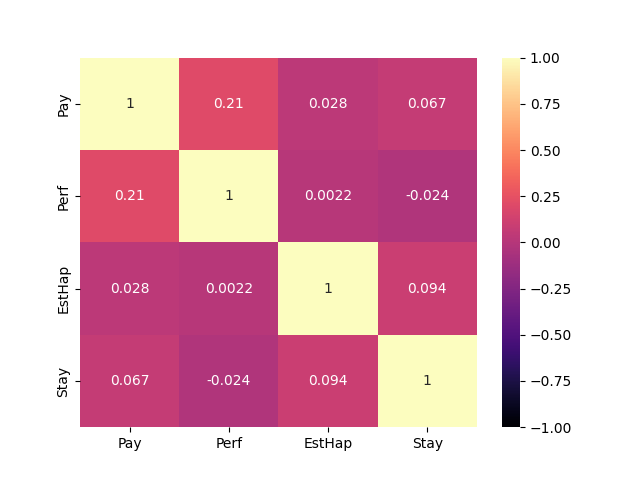
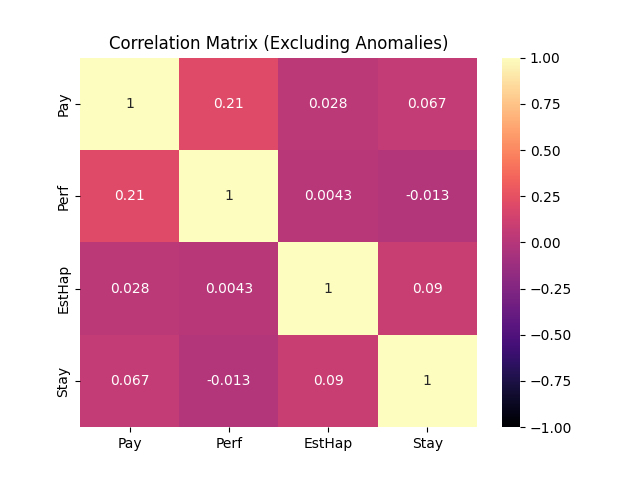
exclude data anomalies

diff --git a/Project 2/data_exploration.py b/Project 2/data_exploration.py
@@ -16,21 +16,23 @@ print(data.corr())
 import matplotlib.pyplot as plt
 import seaborn as sns
 
-# Correlation matrix without the 'ID' column
-correlation_matrix = data.drop(columns=['ID']).corr()
+# Exclude anomalies with IDs 148 and 151 from the dataset
+filtered_data = data[(data['ID'] != 148) & (data['ID'] != 151)]
+
+# Correlation matrix without the 'ID' column and anomalies
+correlation_matrix = filtered_data.drop(columns=['ID']).corr()
 
 # Change the color palette and center the color mapping at 0
 sns.heatmap(correlation_matrix, annot=True, cmap='magma', center=0, vmin=-1, vmax=1)
-
-# Show the plot
+plt.title('Correlation Matrix (Excluding Anomalies)')
 plt.show()
 
 # Customizing seaborn style
 sns.set(style="whitegrid")
 
 # Filter the dataset based on the "Stay" column
-stay_data = data[data['Stay'] == 1]  # Data for employees who stay
-leave_data = data[data['Stay'] == 0]  # Data for employees who leave
+stay_data = filtered_data[filtered_data['Stay'] == 1]  # Data for employees who stay
+leave_data = filtered_data[filtered_data['Stay'] == 0]  # Data for employees who leave
 
 combined_data = pd.concat([stay_data, leave_data])
 
